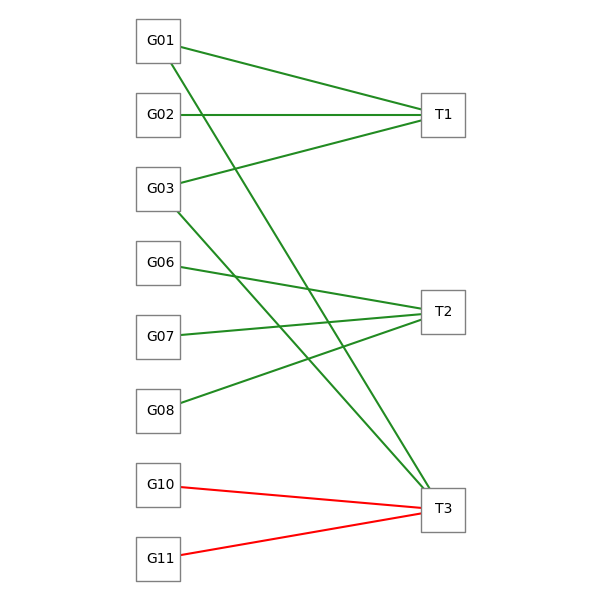
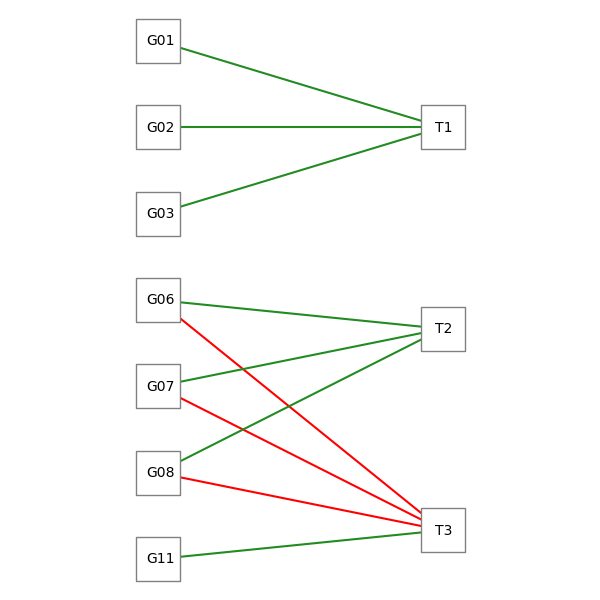
Updated toy data

diff --git a/decoupler/utils.py b/decoupler/utils.py
@@ -183,7 +183,7 @@ def get_acts(adata, obsm_key):
 
 def get_toy_data(n_samples=24, seed=42):
     """
-    Generate a toy `mat` and `net` for testig.
+    Generate a toy `mat` and `net` for testing.
     
     Parameters
     ----------
@@ -211,10 +211,10 @@ def get_toy_data(n_samples=24, seed=42):
         ['T2', 'G07',0.5], 
         ['T2', 'G08',  1],
 
-        ['T3', 'G01',  2],
-        ['T3', 'G03',1.2], 
-        ['T3', 'G10', -1],
-        ['T3', 'G11', -2],
+        ['T3', 'G06',-0.5],
+        ['T3', 'G07', -3], 
+        ['T3', 'G08', -1],
+        ['T3', 'G11', 1],
 
         ],
         columns = ['source', 'target', 'weight']
